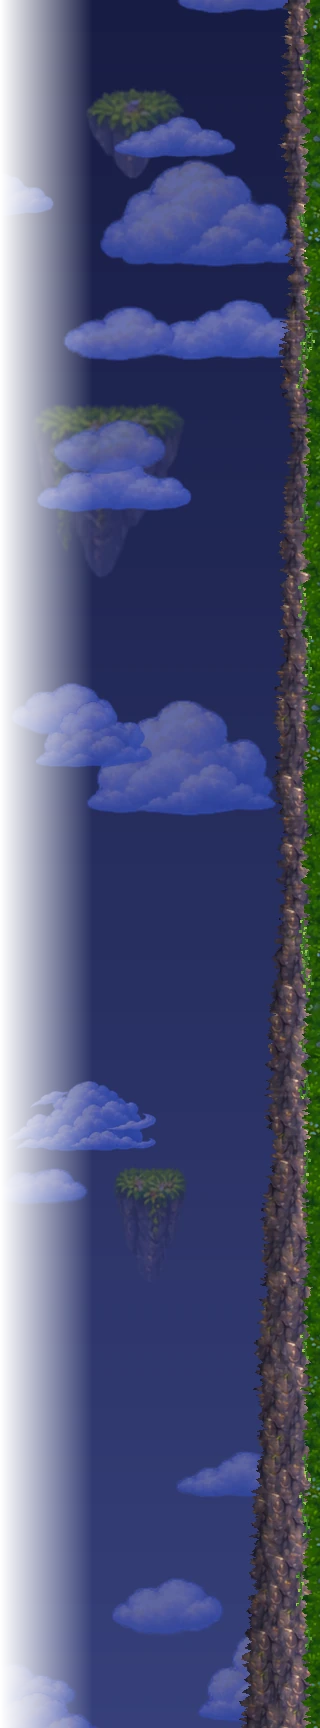
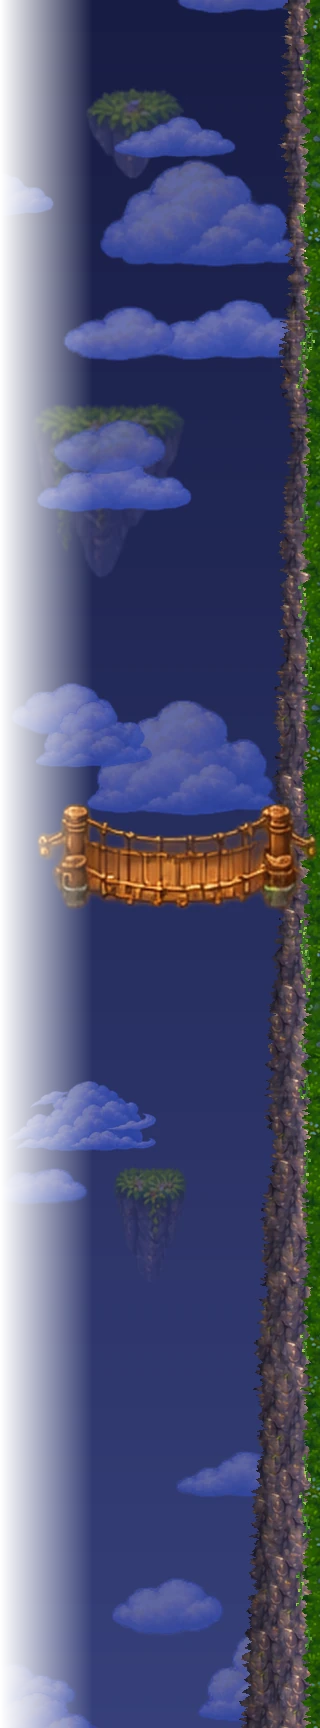
Owner's list, package A: sleeping NPCs answer a knock (wait until morning), loot waits for E, Mira/Toren/Bran quests are side quests (pages count during the story), the grove's way back on the western path, finished quests clear their leftovers, the charged attack roots the hero and sprint/roll canc
Claude-Session: https://claude.ai/code/session_01MWkFZACZUurbmFYoYvVtgm

Changed region(s): [[0.125, 0.4375, 1.0, 0.5312]]

diff --git a/docs/ROADMAP.md b/docs/ROADMAP.md
@@ -359,17 +359,17 @@
 ## Этап 19. Список владельца (8 ноября 2026) — [ ] (максимальный приоритет)
 Полный список — 39 пунктов, разложены по пакетам. Номера — как у владельца.
 
-**Пакет A — баги**
-- [ ] (8) Со спящими NPC, в том числе со старейшиной, можно говорить — так быть не должно.
-- [ ] (10) Добыча с мобов собирается сама — убрать.
-- [ ] (12) Квест Миры на сбор записей не выполняется — найти причину; при конфликте с сюжетом писать, что пройти сначала.
-- [ ] (15) Из Зачарованного леса нет обратного пути: убрать телепорт в Зелёные Пределы, ходить по мосту.
-- [ ] (16) После сдачи квеста квестовые предметы остаются на земле.
-- [ ] (20) Герой с заряженной атакой двигается — должен стоять; кувырок и спринт отменяют заряд.
-- [ ] (34) Мужской персонаж в создании иногда не выбирается.
-- [ ] (37) Смена разрешения экрана ничего не меняет.
-- [ ] (38) Имя в создании персонажа не меняется.
-- [ ] (6) Пауза (Esc) должна останавливать и анимации.
+**Пакет A — баги** — [x] готово (`tests/owner_batch_a.gd`)
+- [x] (8) Спящие NPC не разговаривают: на стук отвечают сонным бормотанием, можно «Подождать до утра» (ночь пропускается).
+- [x] (10) Добыча ждёт на земле до нажатия E («E — подобрать: имя»); сами собираются только монеты.
+- [x] (12) Квест Миры: страницы засчитывались, только пока квест был «текущим», а любой шаг сюжета его вытеснял. Задания Миры, Торена и Брана теперь побочные и идут параллельно сюжету. Подсказки «что пройти сначала» — в пакете B.
+- [x] (15) Выход из Зачарованного леса перенесён с середины карты на западную тропу — туда, откуда герой пришёл.
+- [x] (16) После сдачи квеста его предметы исчезают с земли.
+- [x] (20) С заряженным ударом или прицельным выстрелом герой стоит; кувырок и спринт отменяют заряд.
+- [x] (34) Мужской персонаж не выбирался: поверх карточки лежал невидимый контейнер бокового меню и забирал клики.
+- [x] (37) Разрешение меняет размер окна (развёрнутое окно сначала восстанавливается). В полноэкранном и безрамочном режимах выбор разрешения выключен с подписью «родное разрешение монитора».
+- [x] (38) Имя: поле тоже было закрыто тем контейнером; теперь при клике имя по умолчанию выделяется, и новое печатается вместо него.
+- [x] (6) В паузе останавливается и колыхание листвы: шейдер берёт время мира, а не TIME. Остальное и раньше вставало с деревом сцены.
 
 **Пакет B — квесты и темп**
 - [ ] (7) Сюжет нельзя пройти подряд: часть шагов открывается после побочных заданий и помощи жителям; писать, что сюжет пока недоступен и что нужно пройти, с наводкой, где взять квест.
